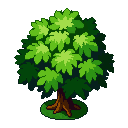
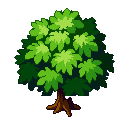
Ground objects: remove baked green patch and add a drop-shadow layer (FB-3)
Strip the one baked green ground ellipse (tree-oak.png) and render a believable elliptical ground-contact shadow under every object at depth 0.6 (above terrain, below objects and entities). Light from above; shadows are neutral so desaturation leaves them correct.

Changed region(s): [[0.3125, 0.75, 0.6875, 0.9375]]

diff --git a/src/scenes/GameScene.ts b/src/scenes/GameScene.ts
@@ -211,11 +211,18 @@ export class GameScene extends Phaser.Scene {
   // Tracked as instance fields so cleanupResize can destroy them and uiCam can
   // ignore them. Reset to [] at the top of renderObjects().
   private objectSprites: Phaser.GameObjects.Image[] = [];
+  // Drop-shadow layer (FB-3) — one soft elliptical ground-contact shadow per
+  // object, rendered at depth 0.6 (above terrain/exit overlays, below
+  // decorations/objects/entities) so every object reads as grounded with light
+  // from above. Replaces the baked-in green ground patches some tree sprites
+  // shipped with. Shadows are neutral dark so the drained-area desaturation
+  // pipeline leaves them correct on the main camera.
+  private objectShadows: Phaser.GameObjects.Ellipse[] = [];
   // Conditional objects: visibility re-evaluated only on flag changes
   // (Learning EP-01). Each entry stores the underlying ObjectInstance so the
   // condition string is available for re-eval and so buildObjectCollisionMap
   // can re-derive the cell-block flag.
-  private conditionalObjects: { sprite: Phaser.GameObjects.Image; instance: ObjectInstance }[] = [];
+  private conditionalObjects: { sprite: Phaser.GameObjects.Image; shadow: Phaser.GameObjects.Ellipse; instance: ObjectInstance }[] = [];
   // Translucent exit-zone overlays (US-92). Rendered at depth 0.5 between
   // terrain and decorations using STYLE_PALETTE.hopeGoldLight at alpha 0.25 so
   // exit invitations remain visible without a dedicated terrain frame.
@@ -1691,6 +1698,7 @@ export class GameScene extends Phaser.Scene {
   // they don't double-render.
   private renderObjects(): void {
     this.objectSprites = [];
+    this.objectShadows = [];
     this.conditionalObjects = [];
     for (const inst of this.area.objects) {
       const def = OBJECT_KINDS[inst.kind];
@@ -1727,9 +1735,38 @@ export class GameScene extends Phaser.Scene {
         : (inst.row + fp.h) * TILE_SIZE;
       sprite.setDepth(def.tall ? this.ySortDepth(sortY) : 2.5);
       this.objectSprites.push(sprite);
+
+      // Believable ground-contact shadow (FB-3, light-from-above). Pools at the
+      // object's base: for objects with a collision footprint (trees, the stag)
+      // it tucks under the trunk-base collider; otherwise it spans the sprite's
+      // bottom edge. An oblique ellipse (~0.42 aspect) reads as a flat shadow on
+      // the ground rather than a circle painted up the object. Depth 0.6 keeps
+      // it above terrain but beneath the object and any entity that walks over.
+      const cf = def.collisionFootprint;
+      let shCx: number;
+      let shBaseY: number;
+      let shW: number;
+      if (cf) {
+        shCx = (inst.col + cf.dx + cf.w / 2) * TILE_SIZE;
+        shBaseY = (inst.row + cf.dy + cf.h) * TILE_SIZE;
+        shW = Math.max(cf.w * TILE_SIZE * 1.6, TILE_SIZE * 0.9);
+      } else {
+        shCx = (inst.col + fp.w / 2) * TILE_SIZE;
+        shBaseY = (inst.row + fp.h) * TILE_SIZE;
+        shW = fp.w * TILE_SIZE * 0.72;
+      }
+      const shH = shW * 0.42;
+      // Lift the ellipse centre up by a third of its height so it sits snug
+      // under the base contact line instead of floating below it.
+      const shadow = this.add.ellipse(shCx, shBaseY - shH * 0.35, shW, shH, 0x000000, 0.26);
+      shadow.setDepth(0.6);
+      this.objectShadows.push(shadow);
+
       if (inst.condition) {
-        sprite.setVisible(evaluateCondition(inst.condition));
-        this.conditionalObjects.push({ sprite, instance: inst });
+        const visible = evaluateCondition(inst.condition);
+        sprite.setVisible(visible);
+        shadow.setVisible(visible);
+        this.conditionalObjects.push({ sprite, shadow, instance: inst });
       }
     }
   }
@@ -1740,7 +1777,9 @@ export class GameScene extends Phaser.Scene {
     for (const entry of this.conditionalObjects) {
       const cond = entry.instance.condition;
       if (!cond) continue;
-      entry.sprite.setVisible(evaluateCondition(cond));
+      const visible = evaluateCondition(cond);
+      entry.sprite.setVisible(visible);
+      entry.shadow.setVisible(visible);
     }
   }
 
@@ -1962,6 +2001,7 @@ export class GameScene extends Phaser.Scene {
       ...this.tileLayer,
       ...this.exitOverlays,
       ...this.decorationSprites,
+      ...this.objectShadows,
       ...this.objectSprites,
       ...this.propSprites,
       this.player,
@@ -2124,6 +2164,8 @@ export class GameScene extends Phaser.Scene {
     this.objectiveFlagUnsubscribes = [];
     for (const sprite of this.objectSprites) sprite.destroy();
     this.objectSprites = [];
+    for (const shadow of this.objectShadows) shadow.destroy();
+    this.objectShadows = [];
     this.conditionalObjects = [];
     for (const rect of this.exitOverlays) rect.destroy();
     this.exitOverlays = [];
